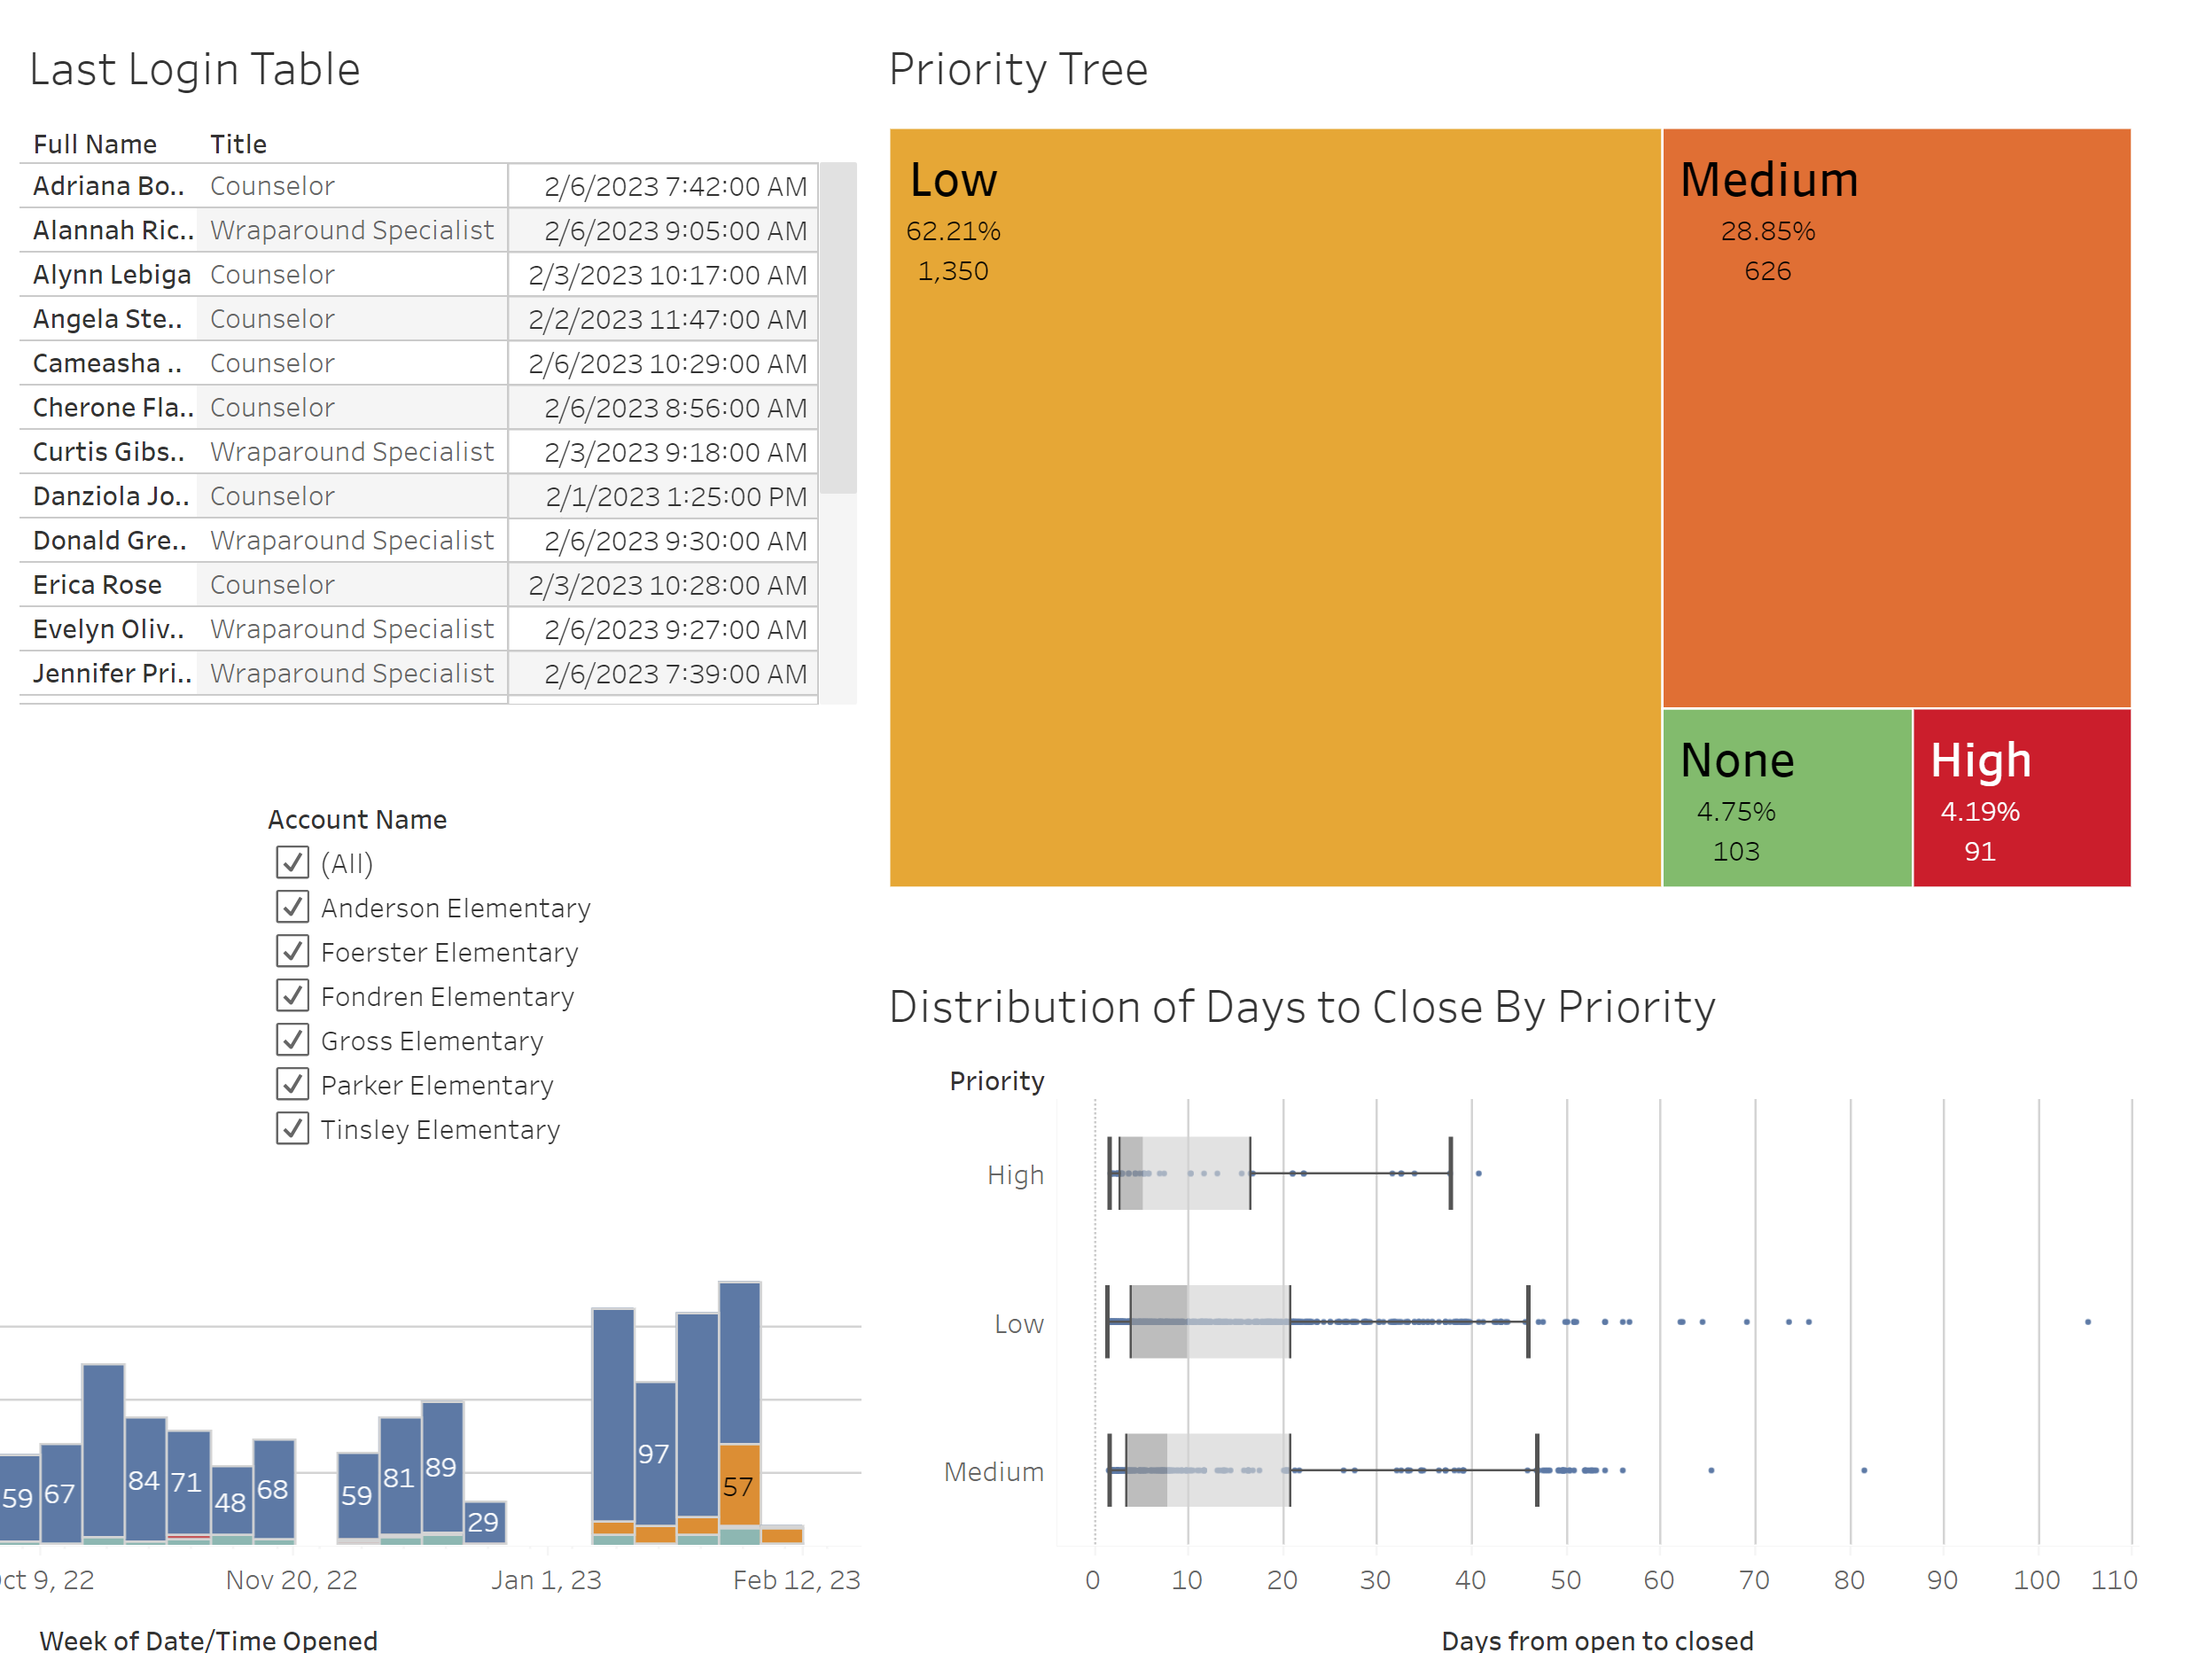
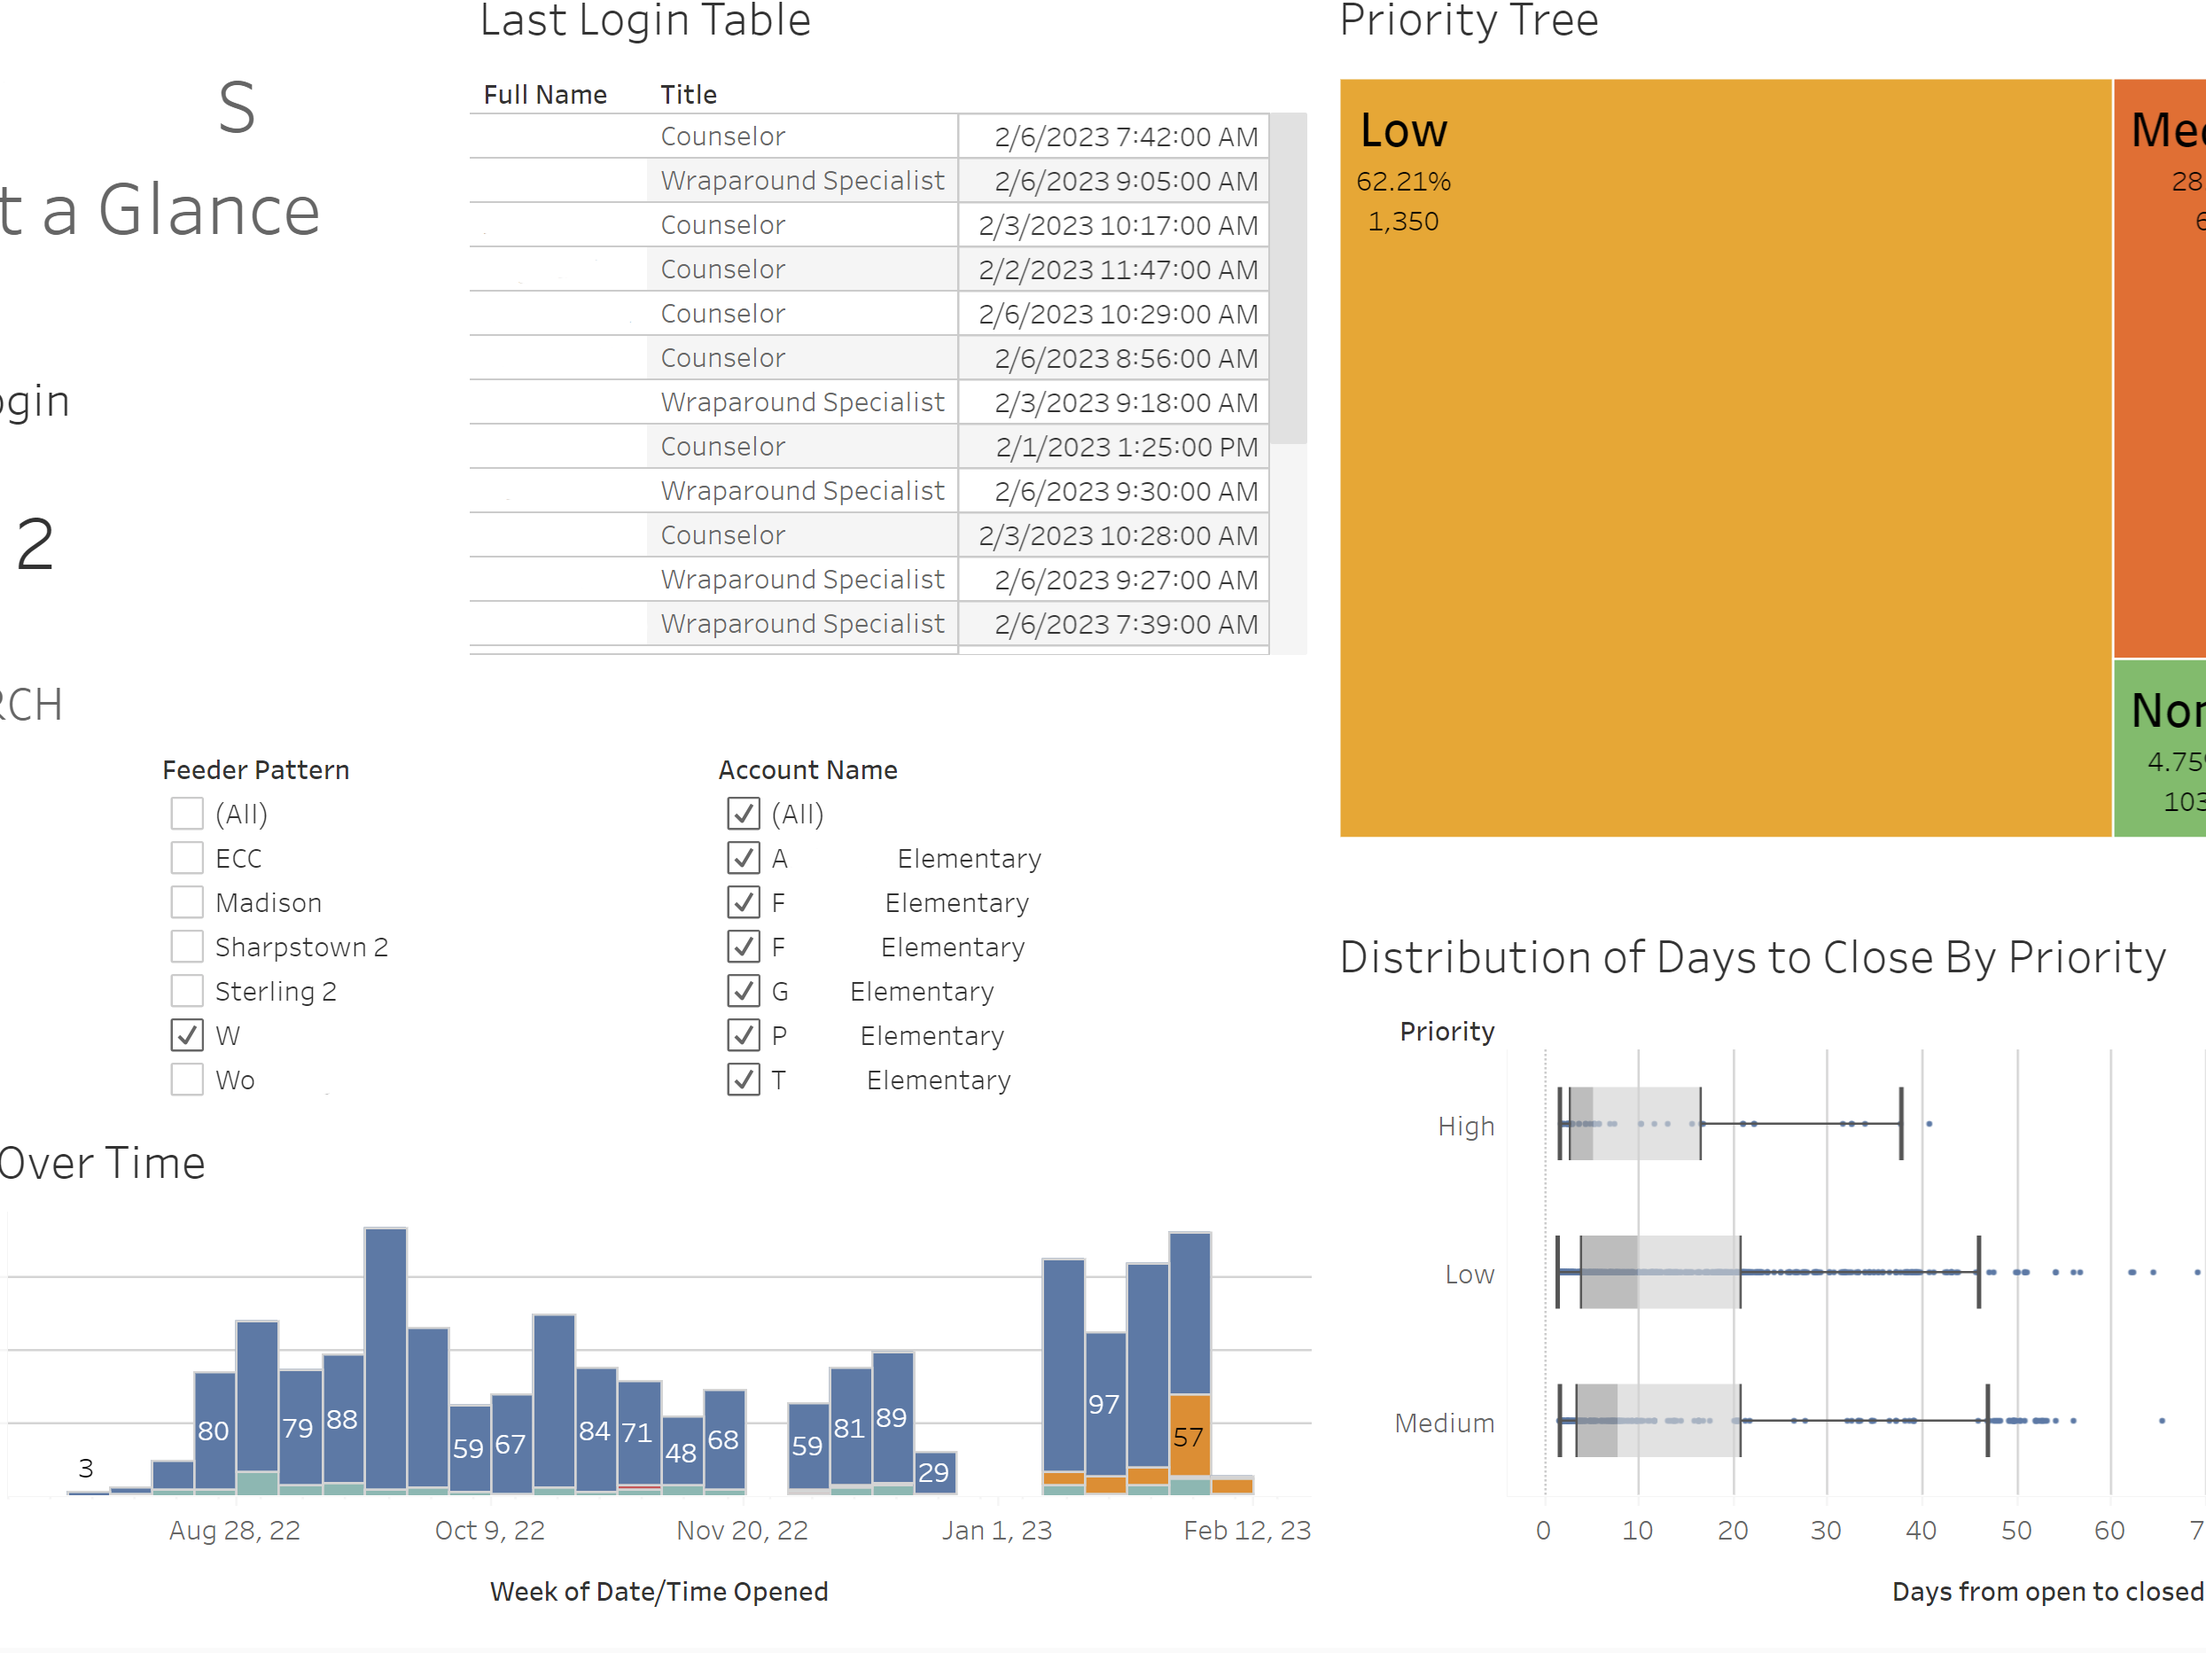
GRC Tableau Page Created

diff --git a/grc_tableau/index.html b/grc_tableau/index.html
@@ -34,19 +34,9 @@
 			</div>
     	</header>
     <main>
-		<h2>Introduction</h2>
-		<p><a href="https://benwillallen.github.io/inflation_forecasting"></a></p>
-		<figure>
-			<img src="np_file_143288.jpeg" alt="A graph showing various aspects of the economies of Ukraine and Russia and comparing them" style="width: 30%; float: left; padding-right: 25px;">
-		</figure>
-		<h3>Data Sources</h3>
-		<ul>
-			<li>Inflation Rate, Percent of GDP from Agriculture, Life Expectancy Data from Gapminder, Retrieved From: <a href="https://www.gapminder.org/">https://www.gapminder.org/</a></li>
-			<li>Annual GDP, GDP per Capita, and Population Data from World Bank Open Data, Retrieved From: <a href="https://data.worldbank.org/?name_desc=true">https://data.worldbank.org/?name_desc=true</a></li>
-			<li>Import and Export Data - United Nations Comtrade Data Set, Retrieved From: <a href="https://comtradeplus.un.org/">https://comtradeplus.un.org/</a></li>
-  			<li>Ukrainian Foreign Aid Data - Christoph Trebesch, Arianna Antezza, Katelyn Bushnell, Andre Frank, Pascal Frank, Lukas Franz, Ivan Kharitonov, Bharath Kumar, Ekaterina Rebinskaya, and Stefan Schramm (2023). "The Ukraine Support Tracker: Which countries help Ukraine and how?" Kiel Working Paper, No. 2218, 1-75.</li>
-  			<li>Russian "Unfriendly Countries" List - Retrieved From: <a href="https://tass.com/russia/1484099">https://tass.com/russia/1484099</a></li>
-		</ul>
+		<h2>Global Research and Consulting Tableau Dashboard</h2>
+		<p>The following dashboard was created in Tableau. Note: some data has been blanked out for security reasons.</p>
+		<img src="tableau.png">
     </main>
     <footer>
       <p>&copy; 2023 Benjamin Allen</p>
